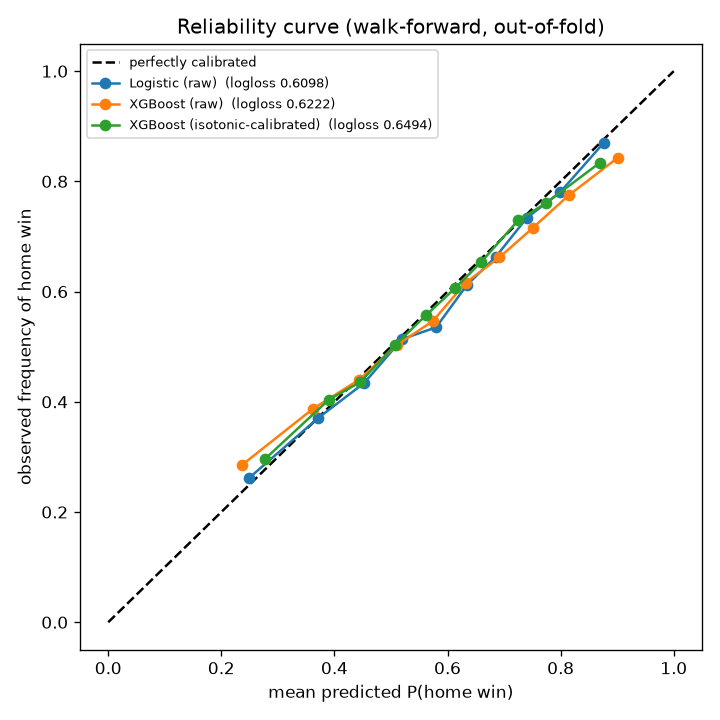
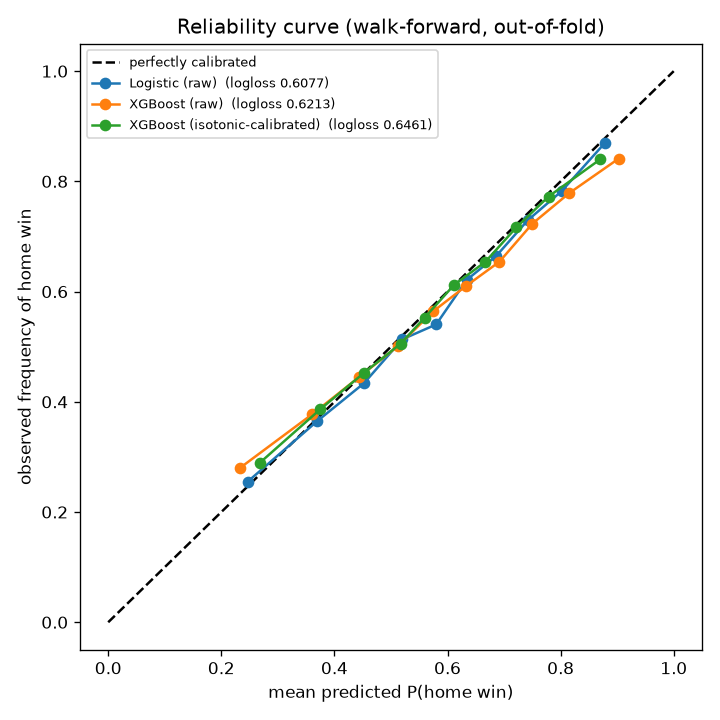
Phase 2 (v2): leakage-safe roster-strength feature from player data
- features/roster.py: player as-of ratings (rolling plus/minus, shifted) ->
  minutes-weighted lineup strength -> shifted to the team's PREVIOUS lineup
  (leakage-safe proxy for who'll play; never reads tonight's box score)
- models/features.py: roster strength added to MODEL_FEATURES; build_model_frame
  loads player_stats and attaches it (graceful NaN if file missing)
- serve/predictor.py + app.py: current roster strength per team wired into the
  live predictor and shown in the 'why' panel
- honest impact: Logistic 0.6098 -> 0.6077 (acc 66.8%), XGBoost 0.6213; 98.4%
  coverage; betting-overlap log loss 0.5983 -> 0.5965 (still no edge after vig)
- tests/test_roster.py incl. truncate-and-rebuild leakage check; reports + docs
  refreshed (results/calibration/shap/betting). 41 passing

Changed region(s): [[0.3056, 0.1833, 0.8556, 0.6722], [0.4278, 0.0917, 0.4583, 0.1528], [0.5806, 0.1528, 0.6111, 0.1833]]

diff --git a/tests/test_roster.py b/tests/test_roster.py
@@ -1,0 +1,96 @@
+"""Tests for the leakage-safe roster-strength feature."""
+
+import numpy as np
+import pandas as pd
+
+from nba_pred.features.roster import (
+    add_roster_strength,
+    current_roster_strength,
+    player_ratings_as_of,
+)
+
+
+def _player_stats() -> pd.DataFrame:
+    # Two teams (10, 20), three game-dates. Team 10 has a strong player (P1) and
+    # a weak one (P2). Plus/minus is what drives the rating.
+    rows = []
+    dates = ["2023-10-25", "2023-10-27", "2023-10-29"]
+    gids = ["0001", "0002", "0003"]
+    for d, gid in zip(dates, gids):
+        rows += [
+            {"game_id": gid, "game_date": d, "season": "2023-24", "team_id": 10,
+             "player_id": 1, "minutes": 36, "plus_minus": 12},
+            {"game_id": gid, "game_date": d, "season": "2023-24", "team_id": 10,
+             "player_id": 2, "minutes": 12, "plus_minus": -4},
+            {"game_id": gid, "game_date": d, "season": "2023-24", "team_id": 20,
+             "player_id": 3, "minutes": 30, "plus_minus": -8},
+        ]
+    df = pd.DataFrame(rows)
+    df["game_date"] = pd.to_datetime(df["game_date"])
+    return df
+
+
+def _games() -> pd.DataFrame:
+    return pd.DataFrame(
+        {
+            "game_id": ["0001", "0002", "0003"],
+            "game_date": pd.to_datetime(["2023-10-25", "2023-10-27", "2023-10-29"]),
+            "season": ["2023-24"] * 3,
+            "home_team_id": [10, 10, 20],
+            "away_team_id": [20, 20, 10],
+            "home_win": [1, 1, 0],
+        }
+    )
+
+
+def test_player_rating_excludes_current_game():
+    ps = player_ratings_as_of(_player_stats())
+    p1 = ps[ps["player_id"] == 1].sort_values("game_date")
+    # First game has no prior history -> NaN (min_periods=5 not met anyway).
+    assert pd.isna(p1.iloc[0]["player_rating"])
+
+
+def test_roster_strength_is_as_of_first_game_nan():
+    out = add_roster_strength(_games(), _player_stats())
+    # First game of the season: no previous lineup -> NaN roster strength.
+    first = out[out["game_id"] == "0001"].iloc[0]
+    assert pd.isna(first["home_roster_strength"])
+    assert pd.isna(first["away_roster_strength"])
+
+
+def test_roster_strength_no_future_leakage():
+    """Roster strength for game G must not change if later games are removed."""
+    games, players = _games(), _player_stats()
+    full = add_roster_strength(games, players)
+    for gid in games["game_id"]:
+        gdate = games.loc[games["game_id"] == gid, "game_date"].iloc[0]
+        past_games = games[games["game_date"] <= gdate]
+        past_players = players[players["game_date"] <= gdate]
+        rebuilt = add_roster_strength(past_games, past_players)
+        for col in ("home_roster_strength", "away_roster_strength"):
+            a = rebuilt.loc[rebuilt["game_id"] == gid, col].iloc[0]
+            b = full.loc[full["game_id"] == gid, col].iloc[0]
+            assert (pd.isna(a) and pd.isna(b)) or a == b
+
+
+def _player_stats_long() -> pd.DataFrame:
+    # 8 games per team so the player rating window (min_periods=5) is satisfied.
+    rows = []
+    dates = pd.date_range("2023-10-25", periods=8, freq="2D")
+    for i, d in enumerate(dates):
+        gid = f"{i:04d}"
+        rows += [
+            {"game_id": gid, "game_date": d, "season": "2023-24", "team_id": 10,
+             "player_id": 1, "minutes": 36, "plus_minus": 10},
+            {"game_id": gid, "game_date": d, "season": "2023-24", "team_id": 20,
+             "player_id": 3, "minutes": 30, "plus_minus": -6},
+        ]
+    return pd.DataFrame(rows)
+
+
+def test_current_roster_strength_returns_per_team():
+    cur = current_roster_strength(_player_stats_long())
+    assert set(cur.keys()) == {10, 20}
+    assert all(isinstance(v, float) for v in cur.values())
+    # Team 10's strong player should give it a higher current rating than team 20.
+    assert cur[10] > cur[20]

diff --git a/src/nba_pred/features/roster.py b/src/nba_pred/features/roster.py
@@ -1,0 +1,73 @@
+"""Leakage-safe roster-strength feature from per-player box scores.
+
+The idea: estimate how strong the lineup a team is about to field is, using only
+information available before tip-off.
+
+  1. Player rating (as-of): each player's rolling average plus/minus over their
+     last N games, shifted to EXCLUDE the current game.
+  2. Lineup strength of a team-game: minutes-weighted mean of those as-of player
+     ratings over the players who appeared.
+  3. Roster strength going INTO a game: the team's PREVIOUS game's lineup
+     strength (shift by one within team-season). We never read tonight's box
+     score — using "who actually played tonight" would leak availability (the
+     injury trap). The previous lineup is a leakage-safe proxy for who'll play.
+
+NaN for a team's first game of a season (no prior lineup) — left honest, imputed
+later inside the model.
+"""
+
+from __future__ import annotations
+
+import pandas as pd
+
+ROSTER_FEATURES = ["home_roster_strength", "away_roster_strength"]
+
+PLAYER_RATING_WINDOW = 20  # games of plus/minus history per player
+
+
+def player_ratings_as_of(player_stats: pd.DataFrame) -> pd.DataFrame:
+    """Add `player_rating`: rolling mean plus/minus over prior games (as-of)."""
+    ps = player_stats.sort_values(["player_id", "game_date", "game_id"], kind="mergesort").copy()
+    ps["player_rating"] = ps.groupby("player_id", sort=False)["plus_minus"].transform(
+        lambda s: s.shift(1).rolling(PLAYER_RATING_WINDOW, min_periods=5).mean()
+    )
+    return ps
+
+
+def _lineup_strength(ps: pd.DataFrame) -> pd.DataFrame:
+    """Per team-game minutes-weighted mean of as-of player ratings."""
+    valid = ps["player_rating"].notna() & (ps["minutes"] > 0)
+    v = ps[valid].copy()
+    v["rw"] = v["player_rating"] * v["minutes"]
+    grp = v.groupby(["team_id", "game_id", "game_date", "season"], sort=False)
+    lineup = (grp["rw"].sum() / grp["minutes"].sum()).reset_index(name="lineup_strength")
+    return lineup
+
+
+def add_roster_strength(games: pd.DataFrame, player_stats: pd.DataFrame) -> pd.DataFrame:
+    """Attach home_/away_roster_strength to the wide game spine, leakage-safe."""
+    ps = player_ratings_as_of(player_stats)
+    lineup = _lineup_strength(ps)
+
+    # Roster strength going INTO a game = the team's PREVIOUS game's lineup
+    # strength (shift within team-season so it never uses the current game).
+    lineup = lineup.sort_values(["team_id", "game_date", "game_id"], kind="mergesort")
+    lineup["roster_strength"] = lineup.groupby(["team_id", "season"], sort=False)[
+        "lineup_strength"
+    ].shift(1)
+
+    keyed = lineup[["team_id", "game_id", "roster_strength"]]
+    home = keyed.rename(columns={"team_id": "home_team_id", "roster_strength": "home_roster_strength"})
+    away = keyed.rename(columns={"team_id": "away_team_id", "roster_strength": "away_roster_strength"})
+
+    out = games.merge(home, on=["home_team_id", "game_id"], how="left")
+    out = out.merge(away, on=["away_team_id", "game_id"], how="left")
+    return out
+
+
+def current_roster_strength(player_stats: pd.DataFrame) -> dict[int, float]:
+    """Each team's latest lineup strength — what feeds its next game (for serving)."""
+    ps = player_ratings_as_of(player_stats)
+    lineup = _lineup_strength(ps).sort_values(["team_id", "game_date", "game_id"], kind="mergesort")
+    last = lineup.groupby("team_id").tail(1)
+    return {int(t): float(s) for t, s in zip(last["team_id"], last["lineup_strength"])}

diff --git a/src/nba_pred/models/features.py b/src/nba_pred/models/features.py
@@ -1,28 +1,48 @@
 """Shared model feature spec, so every model trains on the same columns.
 
-`build_model_frame` attaches both Elo and the rolling/rest feature table to the
-spine, producing the single frame all model predict_fns consume.
+`build_model_frame` attaches Elo, the rolling/rest feature table, and (when
+player data is available) leakage-safe roster strength to the spine, producing
+the single frame all model predict_fns consume.
 """
 
 from __future__ import annotations
 
+from pathlib import Path
+
+import numpy as np
 import pandas as pd
 
 from nba_pred.features import FEATURE_COLUMNS as _ROLLING_REST_COLUMNS
 from nba_pred.features import build_feature_table
 from nba_pred.features.elo import compute_elo
+from nba_pred.features.roster import ROSTER_FEATURES, add_roster_strength
 
 ELO_COLUMNS = ["home_elo", "away_elo"]
 
-# The full feature set models train on: Elo strength + as-of rolling/rest form.
-MODEL_FEATURES = ELO_COLUMNS + _ROLLING_REST_COLUMNS
+# The full feature set models train on: Elo strength + as-of rolling/rest form +
+# leakage-safe roster strength from player box scores.
+MODEL_FEATURES = ELO_COLUMNS + _ROLLING_REST_COLUMNS + ROSTER_FEATURES
+
+REPO_ROOT = Path(__file__).resolve().parents[3]
+DEFAULT_PLAYER_STATS = REPO_ROOT / "data" / "processed" / "player_stats.parquet"
 
 
-def build_model_frame(games: pd.DataFrame) -> pd.DataFrame:
-    """Spine + Elo + rolling/rest features, ready for walk_forward.
+def build_model_frame(
+    games: pd.DataFrame, player_stats_path: Path = DEFAULT_PLAYER_STATS
+) -> pd.DataFrame:
+    """Spine + Elo + rolling/rest + roster features, ready for walk_forward.
 
-    Both feature steps are leakage-safe and order-preserving, so they compose
-    cleanly: each attaches columns keyed to the same one-row-per-game spine.
+    Each step is leakage-safe and order-preserving, so they compose cleanly. If
+    the player-stats parquet is missing, the roster columns are added as NaN so
+    the feature set stays consistent.
     """
     with_elo = compute_elo(games)
-    return build_feature_table(with_elo)
+    frame = build_feature_table(with_elo)
+
+    if player_stats_path.exists():
+        players = pd.read_parquet(player_stats_path)
+        frame = add_roster_strength(frame, players)
+    else:
+        for col in ROSTER_FEATURES:
+            frame[col] = np.nan
+    return frame

diff --git a/src/nba_pred/serve/predictor.py b/src/nba_pred/serve/predictor.py
@@ -18,7 +18,8 @@ import pandas as pd
 
 from nba_pred.features.build import explode_to_team_long
 from nba_pred.features.elo import HOME_ADV, START_RATING, expected_home, final_ratings
-from nba_pred.models.features import MODEL_FEATURES, build_model_frame
+from nba_pred.features.roster import current_roster_strength
+from nba_pred.models.features import DEFAULT_PLAYER_STATS, MODEL_FEATURES, build_model_frame
 from nba_pred.models.logistic import fit_serving_model
 from nba_pred.models.xgb import fit_final_model
 
@@ -78,6 +79,12 @@ class Predictor:
         self.latest_season = sorted(games["season"].unique())[-1]
         self.states = compute_team_states(games)
         self.teams = team_lookup()
+        # Each team's current roster strength (latest lineup), for serving.
+        self.roster = (
+            current_roster_strength(pd.read_parquet(DEFAULT_PLAYER_STATS))
+            if DEFAULT_PLAYER_STATS.exists()
+            else {}
+        )
         # Fit each model on ALL games so we can show one prediction per model
         # plus an ensemble. (Elo needs no fit — it's read from current ratings.)
         frame = build_model_frame(games)
@@ -121,6 +128,8 @@ class Predictor:
             "away_roll_pdiff_5": a.roll_pdiff_5,
             "away_roll_pdiff_10": a.roll_pdiff_10,
             "away_win_pct_std": a.win_pct_std,
+            "home_roster_strength": self.roster.get(home_id, float("nan")),
+            "away_roster_strength": self.roster.get(away_id, float("nan")),
         }
         X = pd.DataFrame([row])[MODEL_FEATURES]
 
@@ -137,4 +146,6 @@ class Predictor:
             "p_away": 1.0 - ensemble,
             "home": h,
             "away": a,
+            "home_roster": self.roster.get(home_id, float("nan")),
+            "away_roster": self.roster.get(away_id, float("nan")),
         }

diff --git a/app.py b/app.py
@@ -106,9 +106,9 @@ with predict_tab:
         st.markdown("**Why** (the features driving this):")
         st.dataframe(
             {
-                "": ["Elo rating", "Form (last-10 pt diff)", "Season win %"],
-                home_name: [f"{h.elo:.0f}", f"{h.roll_pdiff_10:+.1f}", f"{h.win_pct_std:.0%}"],
-                away_name: [f"{a.elo:.0f}", f"{a.roll_pdiff_10:+.1f}", f"{a.win_pct_std:.0%}"],
+                "": ["Elo rating", "Form (last-10 pt diff)", "Season win %", "Roster strength (recent +/-)"],
+                home_name: [f"{h.elo:.0f}", f"{h.roll_pdiff_10:+.1f}", f"{h.win_pct_std:.0%}", f"{res['home_roster']:+.1f}"],
+                away_name: [f"{a.elo:.0f}", f"{a.roll_pdiff_10:+.1f}", f"{a.win_pct_std:.0%}", f"{res['away_roster']:+.1f}"],
             },
             hide_index=True,
             width="stretch",

diff --git a/scripts/results_table.py b/scripts/results_table.py
@@ -34,7 +34,7 @@ def main() -> None:
     specs = [
         ("Base rate (home win %)", games, base_rate_predict),
         ("Elo (home_adv=50)", games, elo_predict),
-        ("Logistic (Elo + form/rest)", frame, make_logistic_predict()),
+        ("Logistic (Elo + form/rest/roster)", frame, make_logistic_predict()),
         ("XGBoost", frame, make_xgb_predict()),
         ("XGBoost (calibrated)", frame, make_calibrated_predict(make_xgb_predict(), "isotonic")),
     ]

diff --git a/docs/learnings.md b/docs/learnings.md
@@ -210,3 +210,29 @@ then convert back with `prob_to_american`. After the fix, the fake edge vanished
   expected efficient-market outcome, not a failure. See `docs/betting.md`.
 - Caveats: consensus (not timestamped closing) lines, so edge-vs-consensus not
   true CLV; 2006-2018 coverage only; idealized costs.
+
+---
+
+## Phase 2 (v2) — Player data → leakage-safe roster strength
+
+### Why nba_api beat the Kaggle player file
+The Kaggle player box scores stop in 2018 — so a feature built on them would be
+NaN for every current team and couldn't help the live demo. Pulling player game
+logs from `nba_api` (PlayerGameLogs) instead covers 2004-2026 (matching our
+spine, same game_id/team_id/player_id space) — 553,716 player-games — so the
+feature helps live predictions too. Lesson: match a new data source's coverage
+to where you actually need predictions.
+
+### The feature, and its leakage trap
+Roster strength going into game G = the minutes-weighted average of as-of player
+ratings (rolling plus/minus) for the lineup that played the team's PREVIOUS game.
+The trap: using "who played tonight" from the box score leaks availability (the
+injury trap). Using the previous game's lineup is a leakage-safe proxy for who'll
+play, verified by a truncate-and-rebuild test.
+
+### Honest impact
+Modest but real, and leakage-safe: Logistic 0.6098 → **0.6077**, XGBoost 0.6213.
+98.4% coverage. On the betting overlap, model log loss improved 0.5983 → 0.5965
+(closer to the market's 0.5799) — still no betting edge after vig. What's missing
+for a bigger gain is same-day injury availability (needs timestamped injury
+reports, which box scores don't provide).

diff --git a/docs/betting.md b/docs/betting.md
@@ -6,7 +6,7 @@ Out-of-fold logistic predictions joined to historical odds: **12751 games** with
 
 | | Log loss |
 |---|---|
-| Our model | 0.5983 |
+| Our model | 0.5965 |
 | The market (de-vigged) | 0.5799 |
 
 The market beats our model. This is the expected result — closing/consensus lines are extremely hard to beat.
@@ -15,11 +15,11 @@ The market beats our model. This is the expected result — closing/consensus li
 
 | Min edge | Bets | Bet rate | Win rate | ROI |
 |---|---|---|---|---|
-| 0% | 12751 | 100.0% | 44.4% | -5.0% |
-| 2% | 9990 | 78.3% | 43.4% | -4.4% |
-| 5% | 6477 | 50.8% | 42.0% | -3.6% |
-| 8% | 3911 | 30.7% | 41.1% | -0.3% |
-| 10% | 2767 | 21.7% | 39.6% | -1.2% |
+| 0% | 12751 | 100.0% | 44.5% | -5.2% |
+| 2% | 9892 | 77.6% | 43.4% | -5.2% |
+| 5% | 6222 | 48.8% | 42.2% | -3.5% |
+| 8% | 3695 | 29.0% | 40.7% | +0.2% |
+| 10% | 2539 | 19.9% | 39.1% | -1.7% |
 
 ## Honest conclusion
 

diff --git a/docs/results.md b/docs/results.md
@@ -4,10 +4,10 @@ Walk-forward (train seasons 1..k, test k+1), aggregated over all held-out games 
 
 | Model | Log loss | Brier | Accuracy | n |
 |---|---|---|---|---|
-| Logistic (Elo + form/rest) | 0.6098 | 0.2111 | 0.664 | 22798 |
+| Logistic (Elo + form/rest/roster) | 0.6077 | 0.2101 | 0.668 | 22798 |
 | Elo (home_adv=50) | 0.6165 | 0.2140 | 0.658 | 22798 |
-| XGBoost | 0.6222 | 0.2161 | 0.656 | 22798 |
-| XGBoost (calibrated) | 0.6494 | 0.2171 | 0.653 | 22798 |
+| XGBoost | 0.6213 | 0.2155 | 0.659 | 22798 |
+| XGBoost (calibrated) | 0.6461 | 0.2162 | 0.652 | 22798 |
 | Base rate (home win %) | 0.6813 | 0.2441 | 0.577 | 22798 |
 
 ## Reading this

diff --git a/README.md b/README.md
@@ -70,8 +70,8 @@ Full table: [`docs/results.md`](docs/results.md) · calibration:
 |---|---|---|
 | Base rate | 0.6813 | 57.7% |
 | Elo | 0.6165 | 65.8% |
-| **Logistic** | **0.6098** | **66.4%** |
-| XGBoost | 0.6222 | 65.6% |
+| **Logistic** (Elo + form/rest + roster) | **0.6077** | **66.8%** |
+| XGBoost | 0.6213 | 65.9% |
 
 Regenerate: `PYTHONPATH=src uv run python scripts/results_table.py`
 (also `calibration_report.py`, `shap_report.py`).